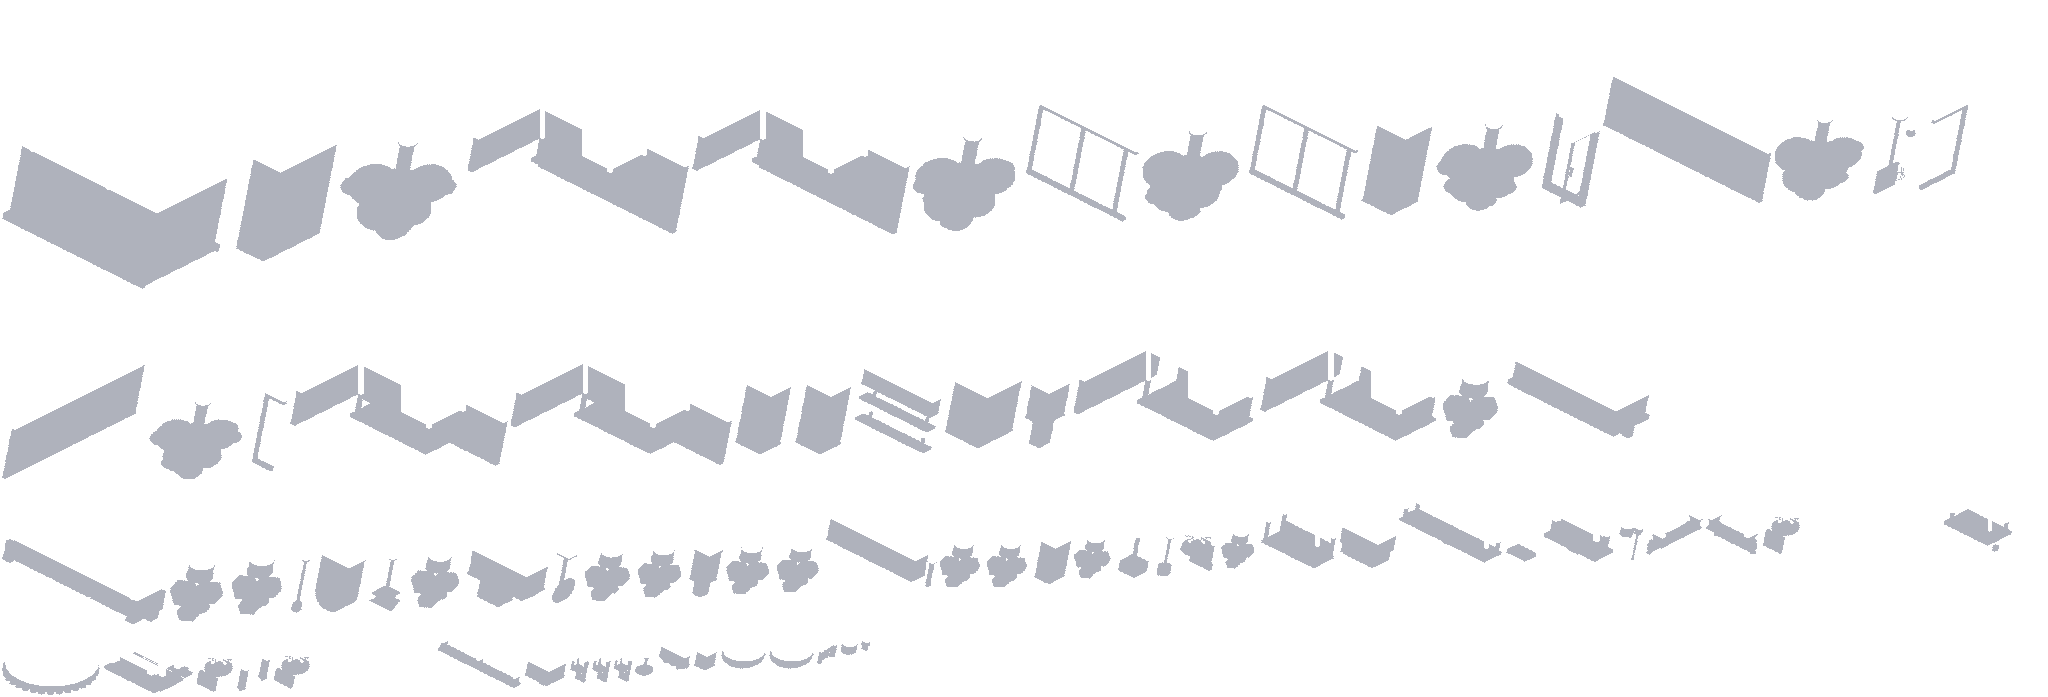
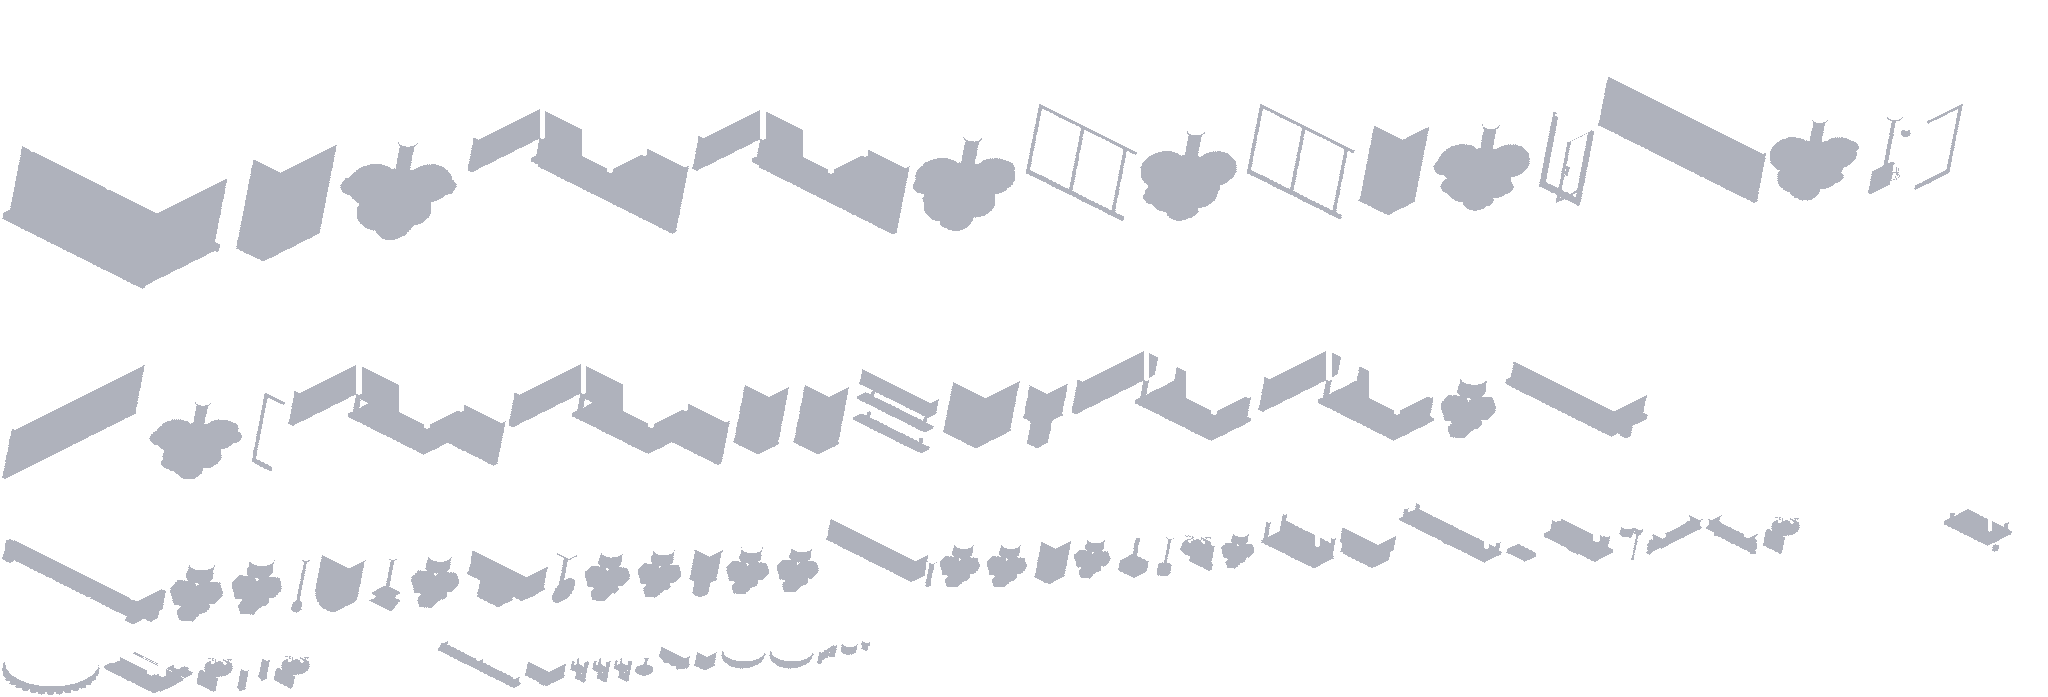
Town step 2: lighter glass, slimmer posts, stable manifest dates
Claude-Session: https://claude.ai/code/session_01PNVRsHbXHxzQFb8RN72FWh

diff --git a/art/blender/office_assets.py b/art/blender/office_assets.py
@@ -375,12 +375,13 @@ FRAME_L, FRAME_D = '#c9ced6', '#9aa1ad'
 STONE = ['#a39f99', '#8d8a86', '#b3aea6', '#99938a']
 
 
-def glass(x, y, z, w, d, h, col=GLASS, alpha=.28):
-    """Translucent pane: a blended material keyed (col, -alpha) in kit.MATS, so it batches like any box and never glows."""
+def glass(x, y, z, w, d, h, col=GLASS, alpha=.16):
+    """Translucent pane: a blended material keyed (col, -alpha) in kit.MATS, so it batches like any box and never glows.
+    Back faces are culled so the alpha does not compound (the procedural glass was about .16 clear, .14 on the band)."""
     k = (col, -alpha)
     if k not in kit.MATS:
         m = kit.mat(col).copy(); m.node_tree.nodes['Principled BSDF'].inputs['Alpha'].default_value = alpha
-        m.surface_render_method = 'BLENDED'; kit.MATS[k] = m
+        m.surface_render_method = 'BLENDED'; m.use_backface_culling = True; m.use_transparency_overlap = False; kit.MATS[k] = m
     B(x, y, z, w, d, h, col, glow=-alpha)
 
 
@@ -500,23 +501,23 @@ def garage(_):
 def glass_x(L):
     """Partition pane on the plane x = 0 from y 0 to L: clear glass, a frosted band, light frame rails, a mullion at y 0."""
     L = float(L)
-    glass(-1, 0, 5, 2, L, 41); glass(-1.2, 0, 46, 2.4, L, 10, FROST, .55); glass(-1, 0, 56, 2, L, 39)
-    B(-2, 0, 0, 4, L, 5, FRAME_D); B(-2, 0, 95, 4, L, 5, FRAME_L); B(-2, -1.5, 0, 4, 3, 100, FRAME_L)
+    glass(-.5, 0, 5, 1, L, 41); glass(-.6, 0, 46, 1.2, L, 10, FROST, .28); glass(-.5, 0, 56, 1, L, 39)
+    B(-1, 0, 0, 2, L, 5, FRAME_D); B(-1, 0, 95, 2, L, 5, FRAME_L); B(-1, -1.5, 0, 2, 3, 100, FRAME_L)
 
 
 def glass_y(L, x0=0.0, ends=(0, 60, 120)):
     """The same pane on the plane y = 0 from x x0 to x0 + L, with mullions at x0 + each of ends below L."""
     L = float(L)
-    glass(x0, -1, 5, L, 2, 41); glass(x0, -1.2, 46, L, 2.4, 10, FROST, .55); glass(x0, -1, 56, L, 2, 39)
-    B(x0, -2, 0, L, 4, 5, FRAME_D); B(x0, -2, 95, L, 4, 5, FRAME_L)
+    glass(x0, -.5, 5, L, 1, 41); glass(x0, -.6, 46, L, 1.2, 10, FROST, .28); glass(x0, -.5, 56, L, 1, 39)
+    B(x0, -1, 0, L, 2, 5, FRAME_D); B(x0, -1, 95, L, 2, 5, FRAME_L)
     for u in ends:
-        if u <= L: B(x0 + u - 1.5, -2, 0, 3, 4, 100, FRAME_L)
+        if u <= L: B(x0 + u - 1.5, -1, 0, 3, 2, 100, FRAME_L)
 
 
 def door(_):
     """Door frame at y 0 from x -25 to 25 and the open glass leaf on x = 25 (the sign over it is live)."""
-    for x in (-28, 22): B(x, -3, 0, 6, 6, 100, FRAME_D)
-    B(-28, -3, 100, 56, 6, 8, FRAME_L)
+    for x in (-28, 22): B(x, -1, 0, 6, 2, 100, FRAME_D)
+    B(-28, -1, 100, 56, 2, 8, FRAME_L)
     glass(24.2, 3, 2, 1.6, 28, 84); B(24, 2, 0, 2, 31, 2, FRAME_D); B(24, 2, 86, 2, 31, 2, FRAME_L); B(24, 30, 2, 2, 3, 84, FRAME_L)
     B(24.5, 26, 40, 3, 1.5, 12, STEEL)  # handle
     B(-22, -2, 0, 44, 8, .5, '#8f3b2e'); B(-22, 2, .5, 44, 1.6, .1, MUST)  # doormat

diff --git a/art/post.py b/art/post.py
@@ -17,6 +17,7 @@ def look(im, keep_alpha=False):
     """Binarise alpha (unless keep_alpha: glass stays translucent), then the target's warm grade: brighten 1.12, saturate 1.15."""
     a = im.getchannel('A') if keep_alpha else im.getchannel('A').point(lambda v: 255 if v > 100 else 0)
     rgb = ImageEnhance.Color(ImageEnhance.Brightness(im.convert('RGB')).enhance(1.12)).enhance(1.15)
+    if keep_alpha: rgb.paste(im.convert('RGB'), mask=a.point(lambda v: 255 if 0 < v < 255 else 0))  # glass keeps its own tint
     rgb.putalpha(a); return rgb
 
 
